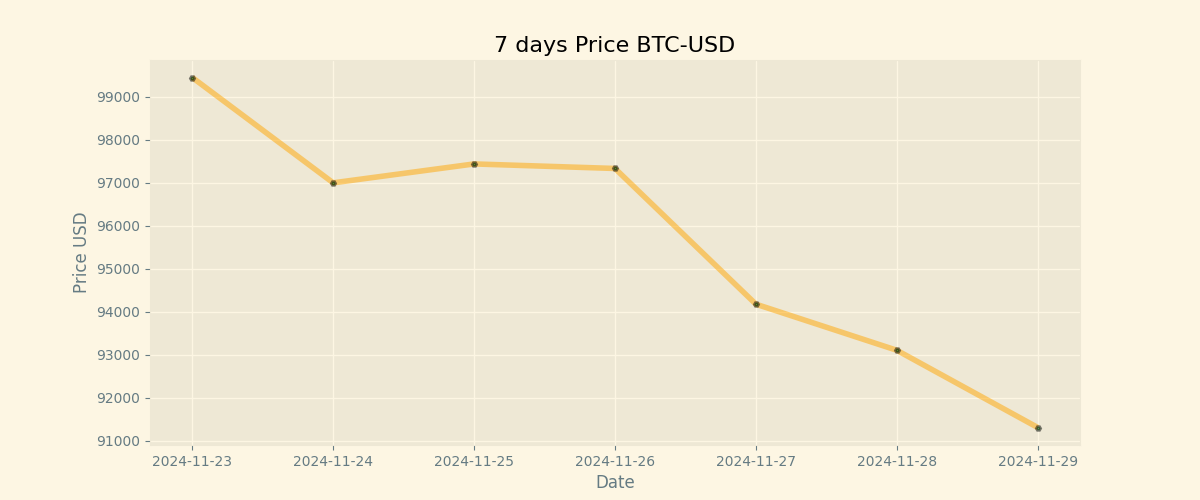
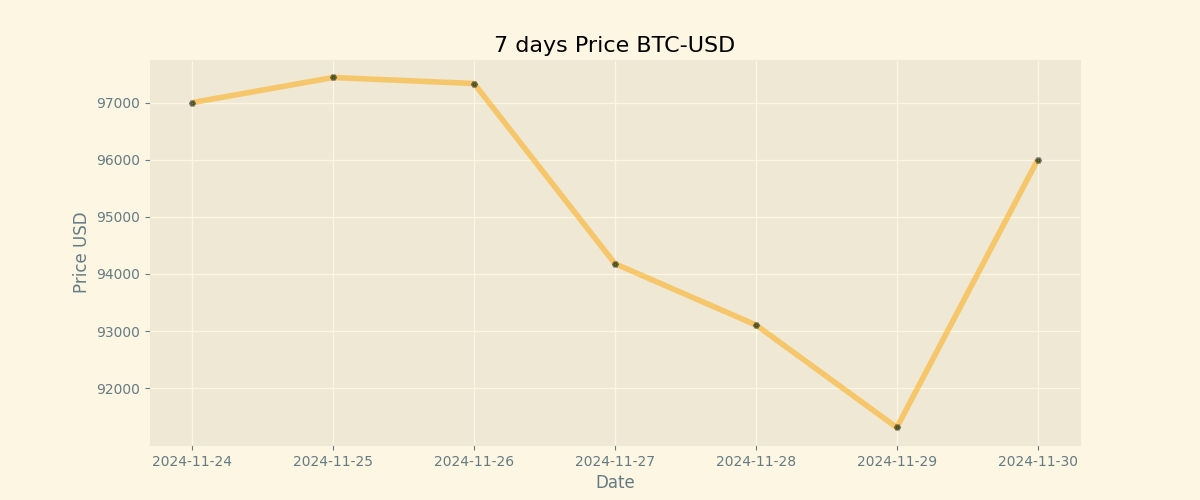
Duty Updates 2024-11-30

diff --git a/README.md b/README.md
@@ -9,8 +9,8 @@
 
 | Currency | Price           |
 | -------- | --------------- |
-| **BTC**  | **$ 91310.01** |
-| **ETH**  | **$ 3600.0** |
+| **BTC**  | **$ 95999.0** |
+| **ETH**  | **$ 3595.41** |
 
 ## BTC chart
 
